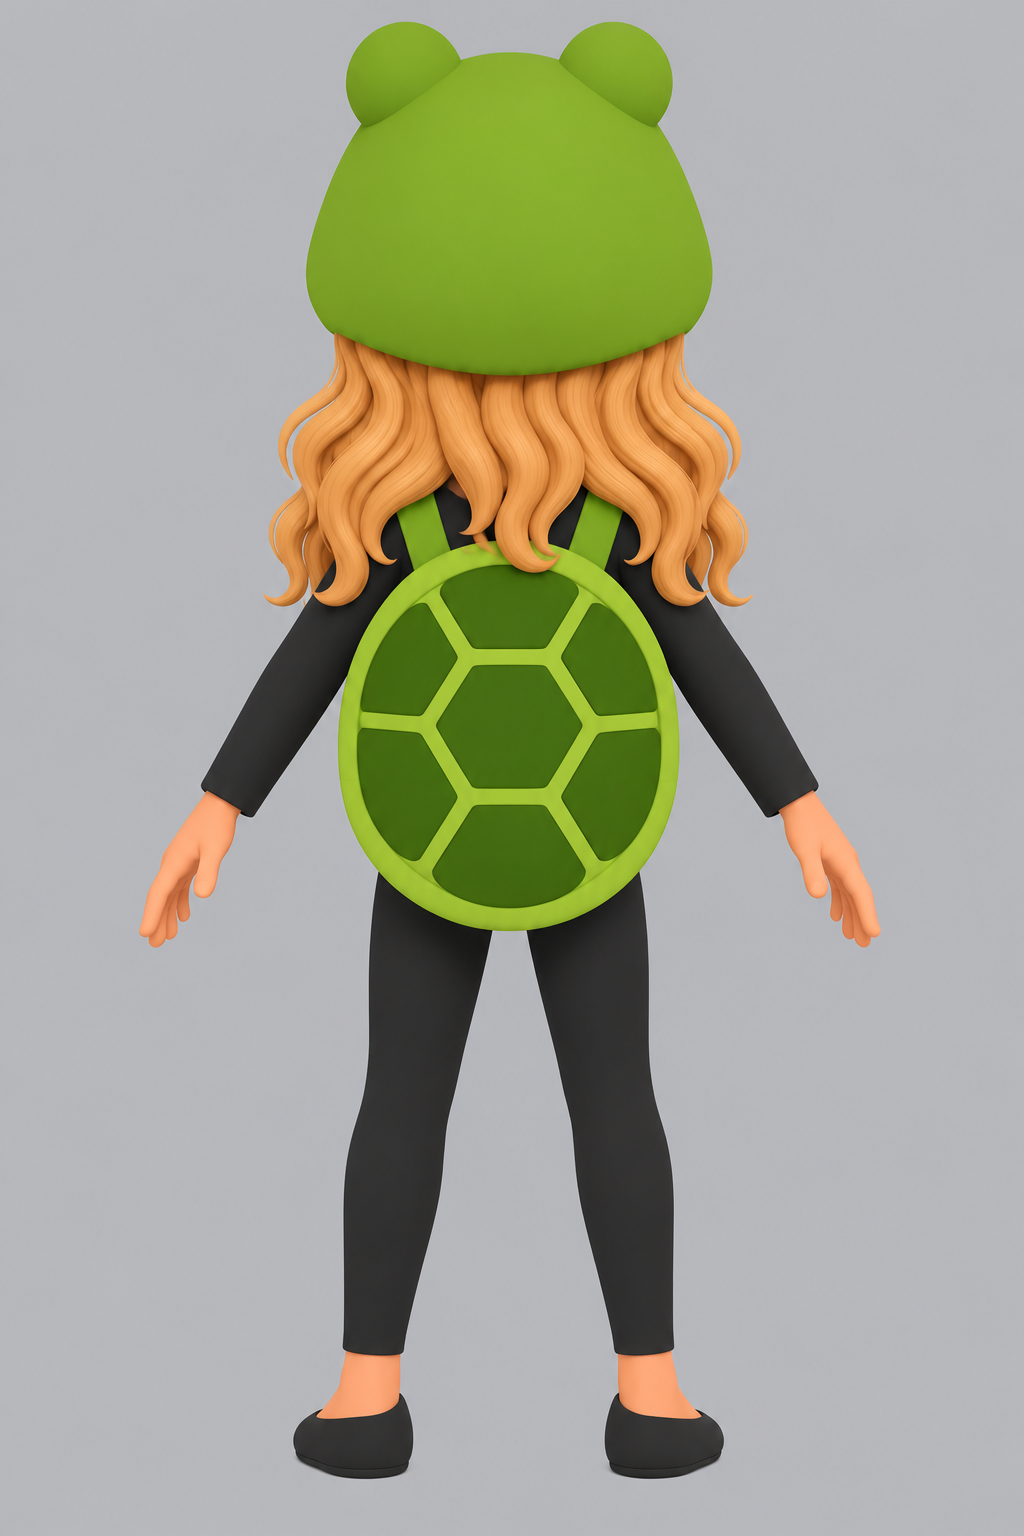
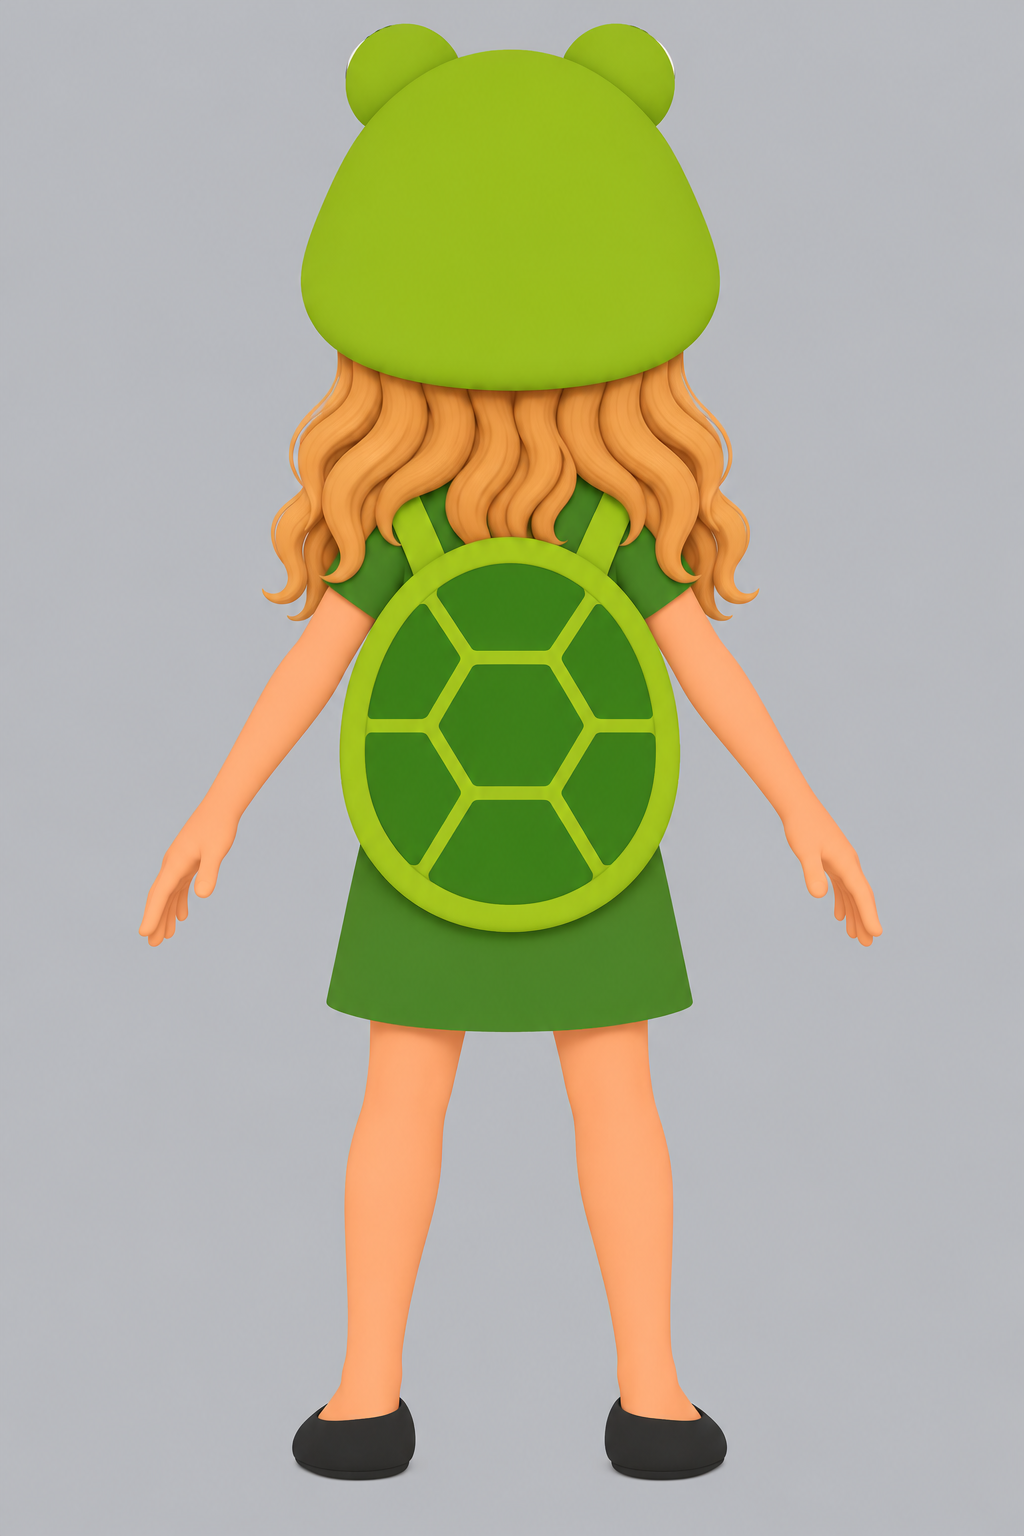
New characters: Brent's revised pictures for Juliette (green dress, no belly plate, blue eyes), Vivienne (blonder, flare pants, low booties, hazel eyes) and Charlotte (blonder, blue eyes) - all four approved for models

diff --git a/NEW_CHARACTER_REVISION_WORKFLOW_3.md b/NEW_CHARACTER_REVISION_WORKFLOW_3.md
@@ -15,6 +15,22 @@ each folder. Each front revision attaches its v1 front, and each back
 attaches the new front made just before it. The new pictures replace
 `front-toon.png` and `back-toon.png`.
 
+## Run the revision
+
+1. Follow the rows in order. Resolve references from `art/` and output
+   filenames from `art/model-input/`.
+2. Attach the row's reference in ImageGen. Combine the full Picture
+   Standard and the row's Picture prompt. Generate one character at
+   full height in the specified view.
+3. Check the requested changes against the reference, including pose,
+   framing, face, and clothing details. Save the PNG to the output path,
+   replacing the existing file. Keep the `-v1.png` source copies.
+4. Attach the newly saved front PNG as the sole reference for that
+   character's back view. Check that both views agree before moving to
+   the next character.
+
+## Picture Standard and ordered prompts
+
 ```
 create new workflow to create images based on the [Picture Standard], [Reference] and [Picture]. For each picture, attach every [Reference] picture listed, in that order, then save to "C:\Users\bwood\OneDrive\Documents\Kids Games\Do You Know Where You Are\art\model-input\[file name]", replacing the file if it exists. For example, C:\Users\bwood\OneDrive\Documents\Kids Games\Do You Know Where You Are\art\model-input\juliette\front-toon.png.
 The [Picture Standard] will be included with every picture prompt. The [Picture] prompt is added to [Picture Standard] and changes per prompt. The [Reference] and [file name] are defined per picture. Make the pictures in the order of the table: each back view uses the front view made just before it as its reference.
